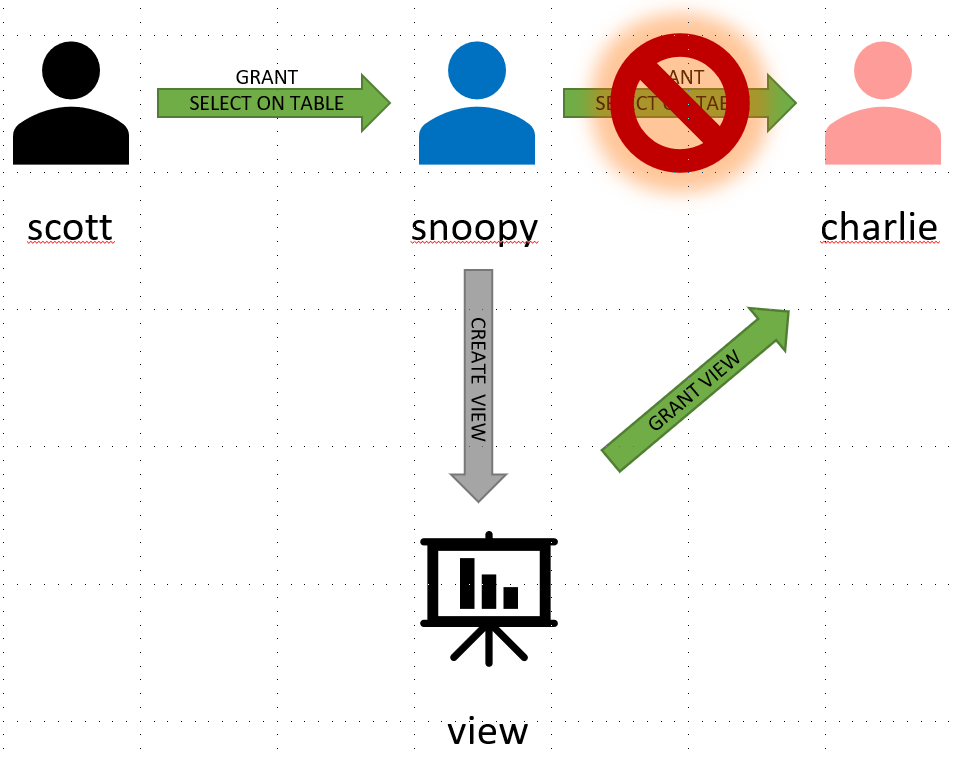
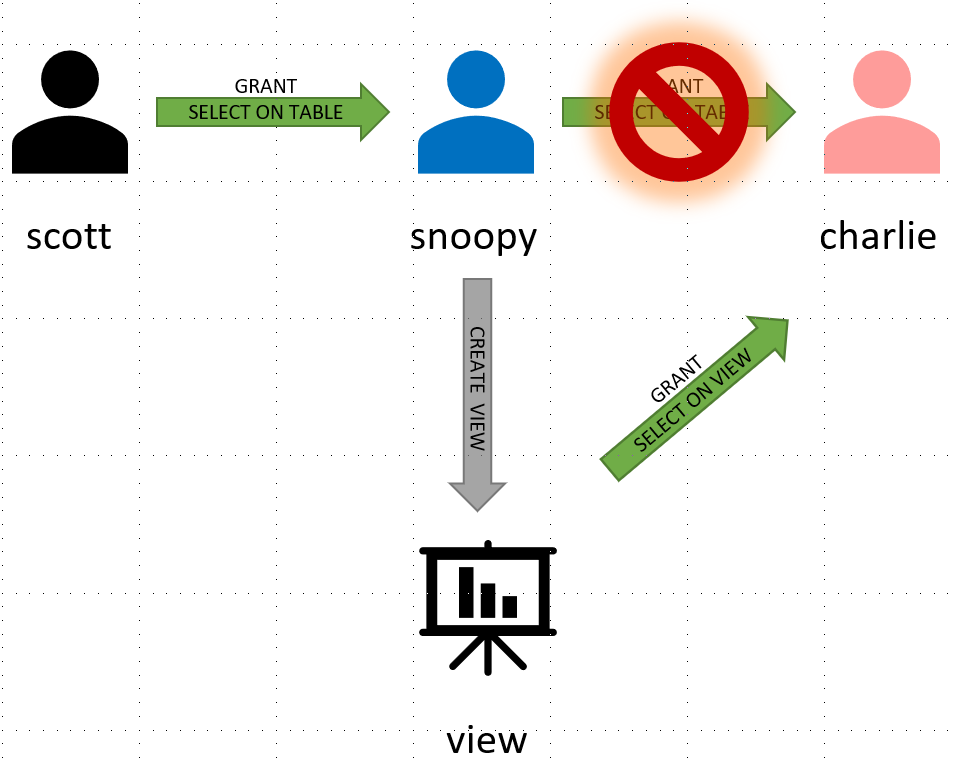
Updated 5.3.3

diff --git a/LAB3.md b/LAB3.md
@@ -182,7 +182,7 @@ CREATE ROLE emp_manager_role;
 #### 4.3 Den Rollen Rechte zuweisen
 ```sql
 GRANT SELECT ON emp_summary_view TO emp_user_role;
-GRANT SELECT,UPDATE, INSERT,ALTER,DELETE ON EMP TO emp_manager_role;
+GRANT SELECT,UPDATE,INSERT,ALTER,DELETE ON EMP TO emp_manager_role;
 ```
 #### 4.4 Den User Rollen zuweisen
 ```sql
@@ -262,7 +262,7 @@ SELECT * FROM USER_TAB_PRIVS WHERE TABLE_NAME = 'EMP';
 Der Benutzer `system` entzieht nun `mickey` die zuvor erteilte Berechtigung mit:
 ```sql
 REVOKE SELECT ON emp FROM mickey;
---Revoke erfolgreich.
+-- Revoke erfolgreich.
 ```
 ![](img/5125.PNG)
 
@@ -271,6 +271,7 @@ Schauen wir uns jetzt nochmals die Berechtigungseinträge mit dem obigen Stateme
 ![](img/5131.PNG)
 
 Die mit `GRANT OPTION` verteilten Berechtigungen werden also kaskadierend widerrufen.
+
 ![](img/5132.PNG)
 
 #### 5.2 Systemrechte
@@ -283,6 +284,7 @@ Zugriffe und Veränderungen an den eigenen Tabellen werden nicht explizit aufgef
 ##### 5.2.2 Das Experiment
 In diesem Experiment wollen wir untersuchen, ob weitergegebene Systemrechte kaskadierend entfernt werden.
 Dazu greifen wir auf die zuvor von `system` angelegten Benutzer `mickey` und `minnie` zurück.
+
 ![](img/5221.PNG)
 
 Nun geben wir `mickey` die Berechtigung, in jedem Schema Tabellen zu erzeugen und diese auch weiterzugeben:
@@ -300,10 +302,10 @@ CREATE TABLE mickey_friends(
     last_name VARCHAR2(50) NOT NULL,
     PRIMARY KEY(friend_id)
 );
---Table MICKEY_FRIENDS erstellt.
+-- Table MICKEY_FRIENDS erstellt.
 
 GRANT CREATE ANY TABLE TO minnie;
---Grant erfolgreich.
+-- Grant erfolgreich.
 ```
 ![](img/5223.PNG)
 
@@ -315,7 +317,7 @@ CREATE TABLE minnie_friends(
     last_name VARCHAR2(50) NOT NULL,
     PRIMARY KEY(friend_id)
 );
---Table MINNIE_FRIENDS erstellt.
+-- Table MINNIE_FRIENDS erstellt.
 ```
 
 Mit dem folgenden SQL-Statement lassen sich die Systemrechte für `mickey` und `minnie` anzeigen:
@@ -327,7 +329,7 @@ SELECT * FROM SYS.DBA_SYS_PRIVS WHERE GRANTEE = 'MICKEY' OR GRANTEE = 'MINNIE';
 Der Benutzer `system` entzieht nun `mickey` die zuvor erteilte Berechtigung mit:
 ```sql
 REVOKE CREATE ANY TABLE FROM mickey;
---Revoke erfolgreich.
+-- Revoke erfolgreich.
 ```
 ![](img/5225.PNG)
 
@@ -343,21 +345,35 @@ Mit dem folgenden SQL-Statement überprüfen wir zusätzlich, ob die jeweils ers
 SELECT OWNER, TABLE_NAME FROM ALL_TABLES WHERE OWNER = 'MICKEY' OR OWNER = 'MINNIE';
 ```
 ![](img/5232.PNG)
+
 Die Tabellen existieren nach wie vor und wurden nicht mit den Systemrechten zusammen entfernt.
 
 Die mit `ADMIN OPTION` verteilten Berechtigungen werden also **nicht** kaskadierend widerrufen:
+
 ![](img/5233.PNG)
 
 #### 5.3 Rechte auf Views
 
 ##### 5.3.1 Szenario
-Der Benutzer `scott` ermöglicht dem Benutzer `snoopy` Lesezugriff auf die `BONUS`-Tabelle allerdings ohne die `WITH GRANT OPTION`,
+Der Benutzer `scott` ermöglicht dem Benutzer `snoopy` Lesezugriff auf die `EMP`-Tabelle allerdings ohne die `WITH GRANT OPTION`,
 damit kann `snoopy` die Berechtigung nicht weitergeben.
 
 ##### 5.3.2 Das Experiment
-Der Benutzer `charlie` möchte nun über `snoopy` auf die `BONUS`-Tabelle zugreifen. Da `snoopy` die Berechtigung hat, neue Views zu erstellen,
+Der Benutzer `charlie` möchte nun über `snoopy` auf die `EMP`-Tabelle zugreifen. Da `snoopy` die Berechtigung hat, neue Views zu erstellen,
 verfolgen wir diesen Ansatz weiter.
+
 ![](img/5321.PNG)
 
+Wir erstellen mit dem Benutzer `snoopy` eine neue View für die `EMP`-Tabelle:
+```sql
+CREATE VIEW EMP_FOR_CHARLIE_VIEW AS SELECT EMPNO, ENAME, JOB, HIREDATE FROM SCOTT.EMP;
+```
+
+Anschliessend geben wir diese View mit den selben Berechtigungen an `charlie` weiter:
+```sql
+GRANT SELECT,INSERT,DELETE,UPDATE ON EMP_FOR_CHARLIE_VIEW TO charlie;
+-- GRANT erfolgreich.
+```
+
 ##### 5.3.3 Beobachtung
-Es funktioniert! :)
+Damit lässt dich die `GRANT OPTION` umgehen und die Berechtigungen weitergeben, allerdings müssen Referenzen auf Views separat erlaubt werden.
